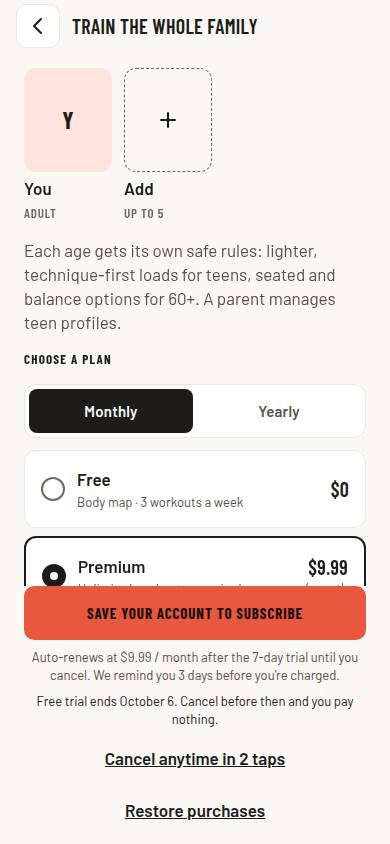
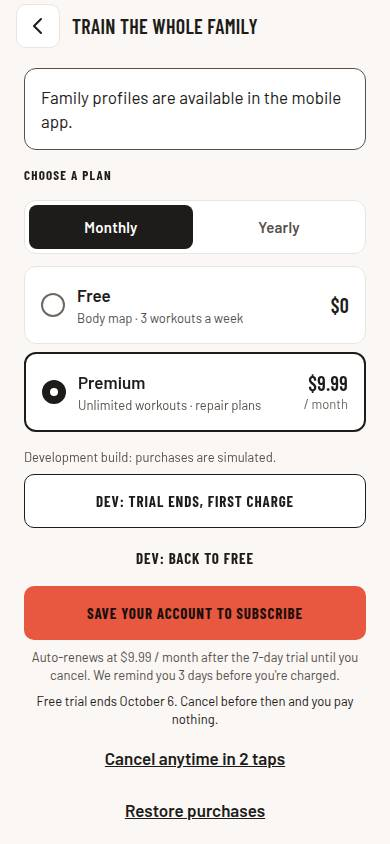
Phase 24: theme:check follows family-off-web; report checks
Claude-Session: https://claude.ai/code/session_01YZKDqVTirwP3vm8p6KZMpS

diff --git a/docs/progress.md b/docs/progress.md
@@ -2260,4 +2260,5 @@ Texto da rodada: `docs/security-round-1.md`. Suas escolhas no início da fase: c
 
 - Lint e typecheck limpos; **1226 testes** passando, também em 3 ordens aleatórias (seeds 101, 424242, 987654321).
 - `db:test` com os 6 testes SQL novos e o `zz_security_policies.sql`; `functions:check`; `security:check` (arquivos, histórico, `npm audit`: 0 alto/crítico, 16 moderados já conhecidos); `web:check` com a CSP ativa.
-- Bundle de produção, `tabs:check`, `theme:check` e a busca de segredos no bundle web: resultado acrescentado abaixo quando terminarem.
+- `bundle:check` (produção) ok; `tabs:check` ok; `security:check --bundle` sem segredos no bundle web.
+- `theme:check`: 50 capturas, primeira pintura escura correta. As capturas "family" e "parent-pin" saíram, porque essas telas não existem mais na web; no lugar delas, a checagem confere que `/family` cai na Home.
